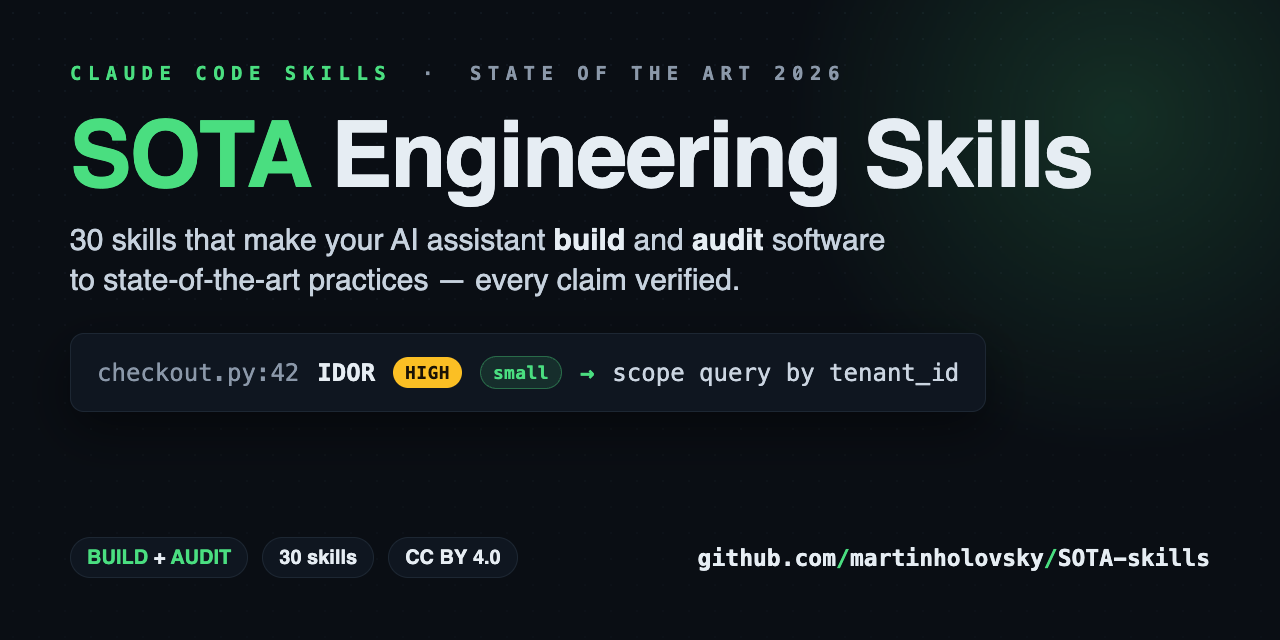
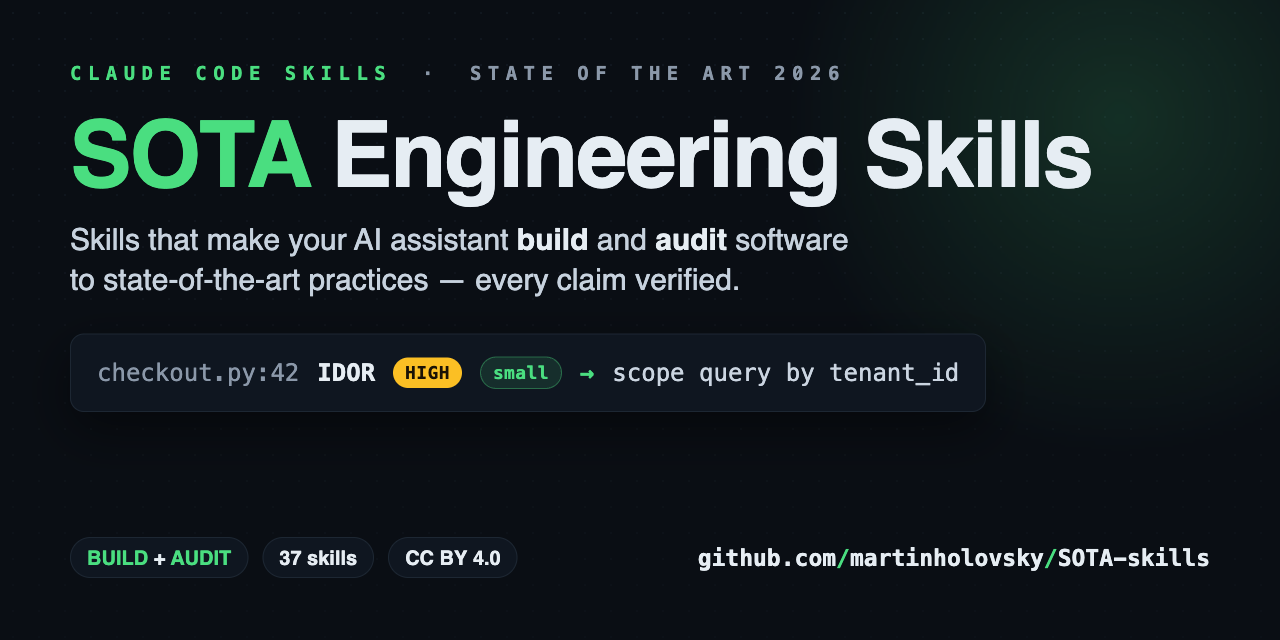
fix(assets): social-preview said '30 skills' — regenerate at 37, make tagline count-free (#41)
The baked-in count had been stale through three releases (30 → 37).
Tagline no longer carries a number; the count now lives in exactly one
pill, the single string to bump per release. PNG re-rendered from the
HTML source at 1280x640.

diff --git a/assets/social-preview.html b/assets/social-preview.html
@@ -104,7 +104,7 @@
 
     <h1><span class="accent">SOTA</span> Engineering Skills</h1>
 
-    <div class="sub">30 skills that make your AI assistant <b>build</b> and <b>audit</b> software<br>to state-of-the-art practices — every claim verified.</div>
+    <div class="sub">Skills that make your AI assistant <b>build</b> and <b>audit</b> software<br>to state-of-the-art practices — every claim verified.</div>
 
     <div class="finding">
       <span class="path">checkout.py:42</span>
@@ -120,7 +120,7 @@
     <div class="foot">
       <div class="meta">
         <span class="pill"><span class="g">BUILD</span> + <span class="g">AUDIT</span></span>
-        <span class="pill">30 skills</span>
+        <span class="pill">37 skills</span>
         <span class="pill">CC&nbsp;BY&nbsp;4.0</span>
       </div>
       <div class="repo">github.com<span class="slash">/</span>martinholovsky<span class="slash">/</span>SOTA-skills</div>